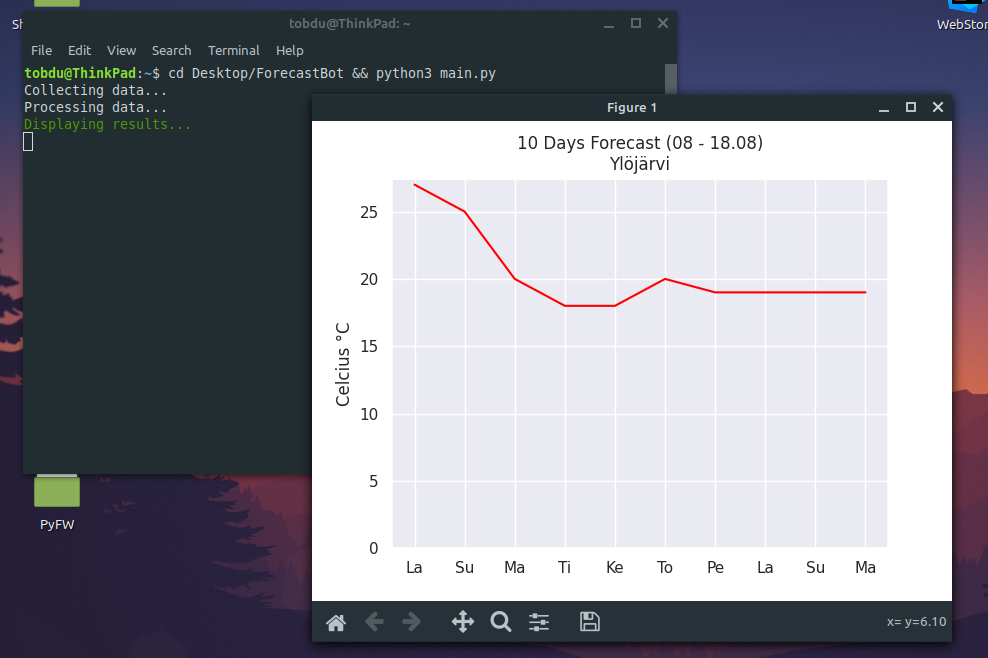
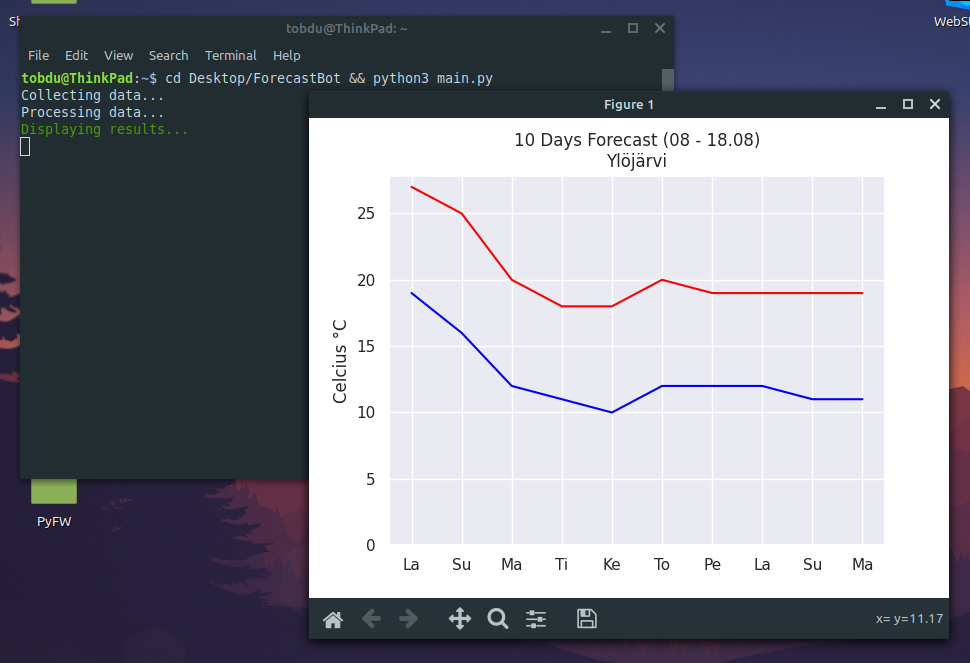
Initial Release

diff --git a/main.py b/main.py
@@ -1,4 +1,5 @@
 from selenium import webdriver
+import selenium
 import matplotlib.pyplot as plt
 import numpy as np
 import seaborn as sns
@@ -20,31 +21,40 @@ def main():
         # ----------------------------------------------
 
         day = browser.find_elements_by_xpath("//div[@class='day']/a/h5")
-        weather = browser.find_elements_by_xpath("//div[@class='day']/a/div/p[1]/span[@class='warm']")
+        temperature_high = browser.find_elements_by_xpath("//div[@class='day']/a/div/p[1]/span[@class='warm']")
+        temperature_low = browser.find_elements_by_xpath("//div[@class='day']/a/div/p[2]/span[@class='warm']")
         city = browser.find_element_by_xpath("//div[@class='navihead']/h2/a").text
 
-        browserIsOpen = False
+        # -----------------------------------------------
 
         print("Processing data...")
         days = {}
-        for date, warmth in zip(day, weather):
-            _ = warmth.text
+        days_cold = {}
+        for date, warmth_high, warmth_low in zip(day, temperature_high, temperature_low):
+            high = warmth_high.text
+            low = warmth_low.text
 
             # Removing +/- and °
-            _ = _[1:]
-            _ = _[:-1]
+            high = high[1:]
+            high = high[:-1]
+            low = low[1:]
+            low = low[:-1]
 
-            days[date.text] = int(_)
+            days[date.text] = int(high)
+            days_cold[date.text] = int(low)
 
+        browserIsOpen = False
         browser.close()
 
         # -----------------------------------------------
 
         print("\u001b[32mDisplaying results...\u001b[0m")
         sns.set()
+
         _, ax = plt.subplots(1)
         xdata = []
         ydata = []
+        ydata2 = []
 
         text_values = []    # Week days to be displayed at the bottom of the diagram
         for _ in days:
@@ -54,19 +64,30 @@ def main():
             text_values.append(day)
         x_values = np.arange(0, len(text_values), 1)
 
+        # Warm
         for _ in range(0, len(days)):
             xdata.append(_)
 
         for _ in days:
             ydata.append(int(days[_]))
+
+        # Cold
+        for _ in days_cold:
+            ydata2.append(int(days_cold[_]))
+
+        # -----------------------------------------------
         
+        # Display results
         ax.plot(xdata, ydata, color="red")
+        ax.plot(xdata, ydata2, color="blue")
+
         ax.set_ylim(ymin=0)
         plt.title("10 Days Forecast (" + datetime.now().strftime("%d") + " - " + (datetime.now()+timedelta(days=10)).strftime("%d.%m") + ")\n" + city)
         plt.ylabel("Celcius °C")
         plt.xticks(np.arange(min(xdata), max(xdata)+1, 1.0))
         plt.xticks(x_values, text_values)
         plt.show()
+
 
     except(KeyboardInterrupt):
         if browserIsOpen:

diff --git a/README.md b/README.md
@@ -1,3 +1,3 @@
-# ForecastBot (Linux)
+# ForecastBot
 
 ![alt text](https://github.com/tobdu399/ForecastBot/blob/master/forecastbot.png?raw=true)
